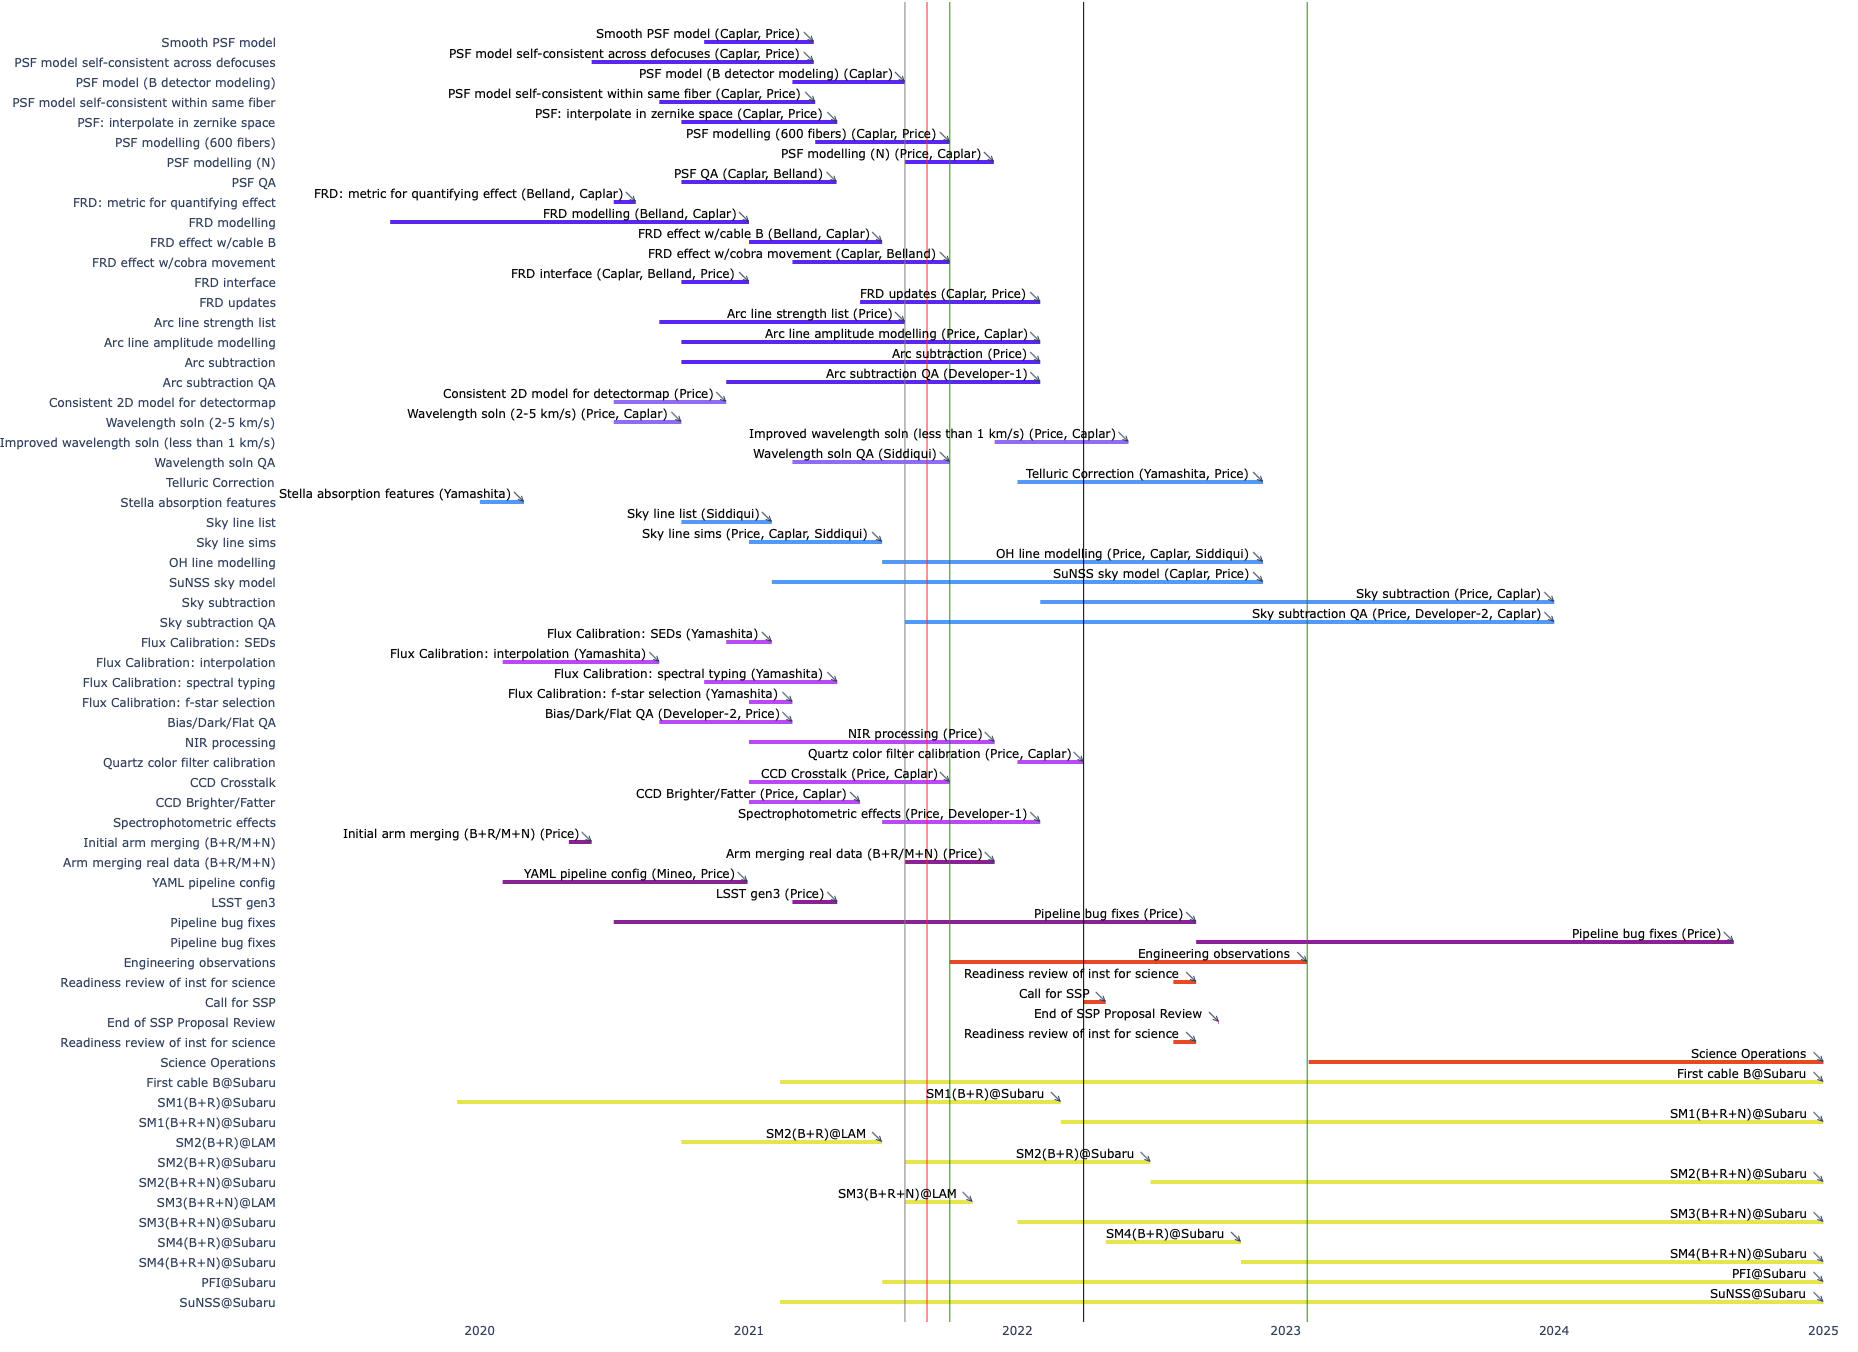
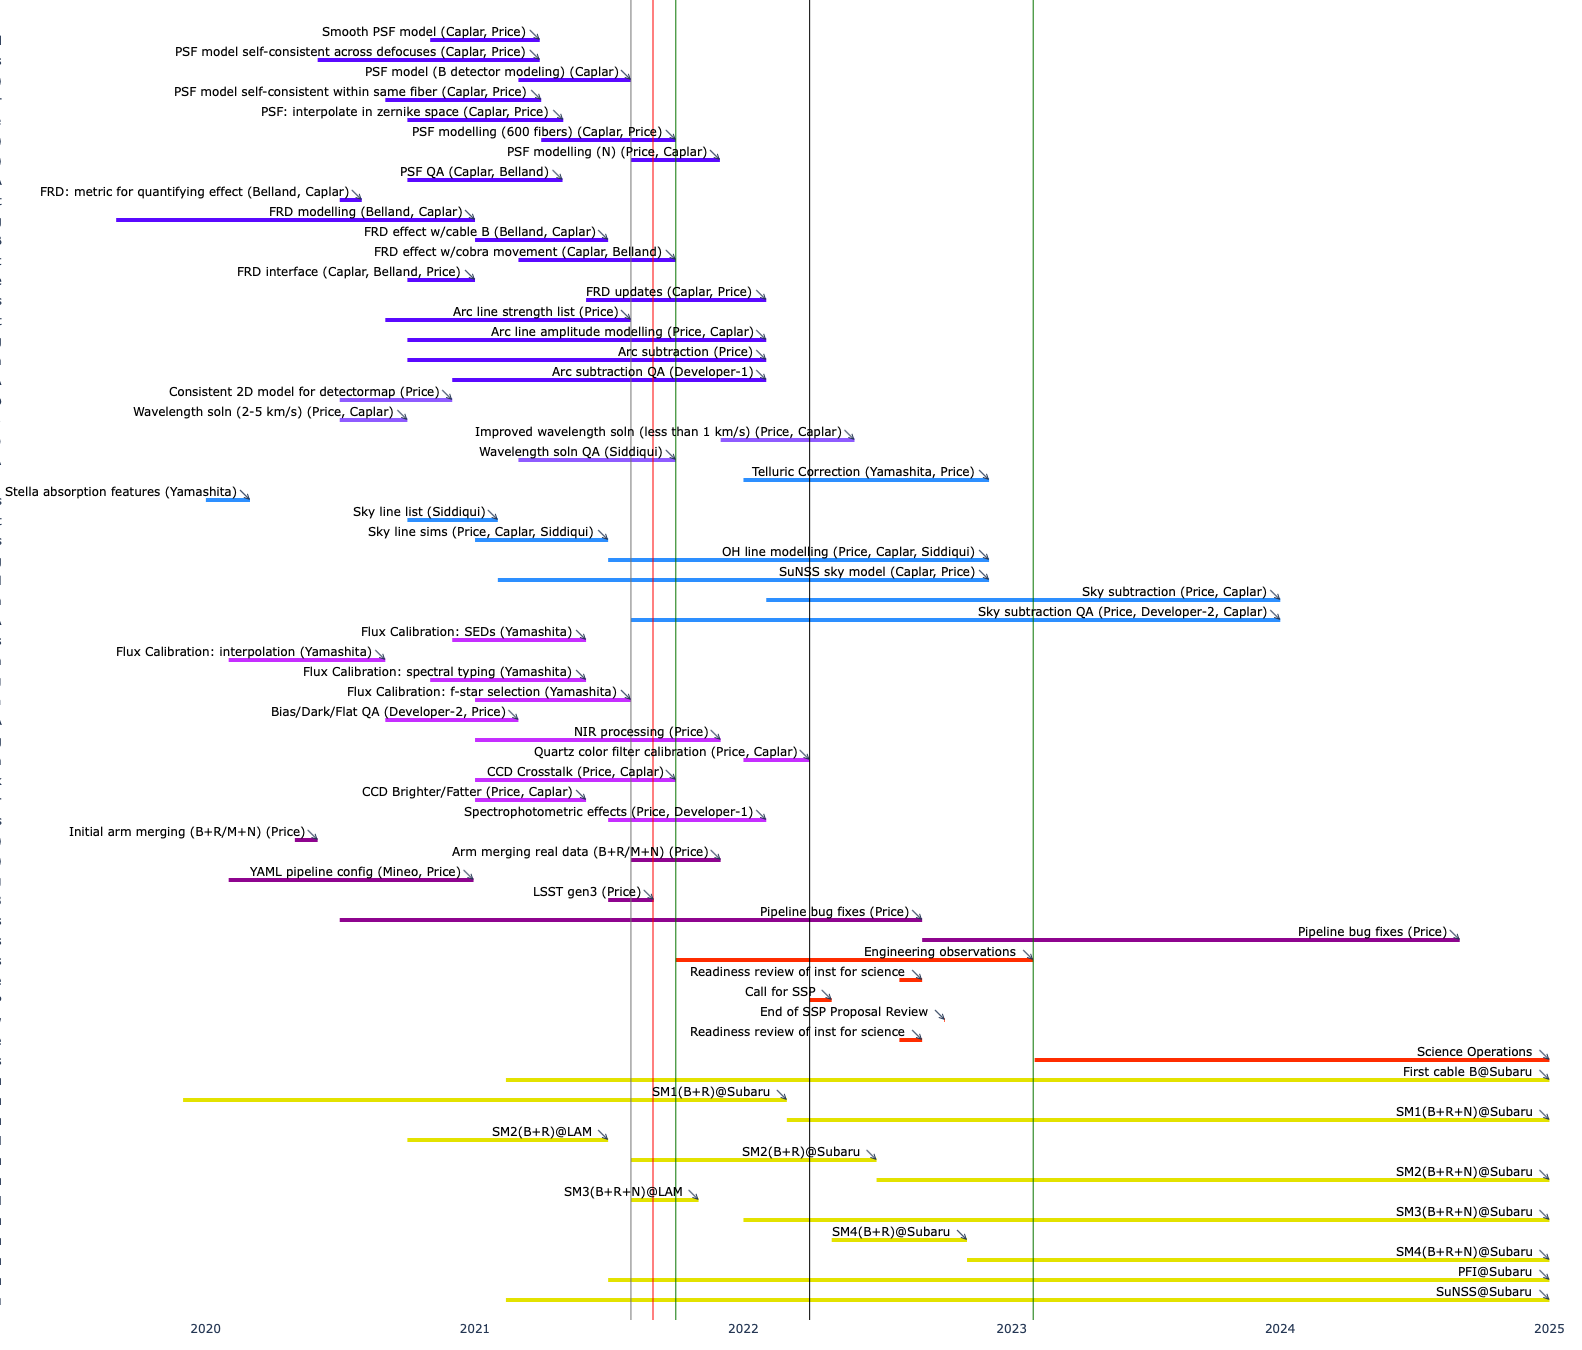
Extended flux calibration plan.
Plan extended to summer 2021.
Further updates required once additional
inputs from NAOJ are provided.

Changed region(s): [[0.0, 0.0, 0.9912, 0.9956]]

diff --git a/plan/doc/changelog.tex b/plan/doc/changelog.tex
@@ -1,11 +1,12 @@
 \section{Version and Changelog}
 
-The version of this document is {\bf 0.5} .
+The version of this document is {\bf 0.6} .
 
 \begin{table}[H]
     \begin{tabular}{|l|l|l|p{10cm}| }
     \hline
     {\bf Version} & {\bf Date} & {\bf Author} & {\bf Description} \\ \hline
+    0.6 & 2021-04-09 & H Siddiqui & Revised flux calibration timeline. Further updates required.\\ \hline
     0.5 & 2021-04-07 & H Siddiqui & Providing a single scenario. SMx timeline updated\\ \hline
     0.4 & 2020-09-10 & H Siddiqui & Incorporated scenarios with and without IPMU/NOAJ developers working on arc modelling\\ \hline
     0.3 & 2020-09-03 & H Siddiqui & Updated timeline assuming no new developers. Misc comments\\ \hline

diff --git a/plan/doc/task_list.tex b/plan/doc/task_list.tex
@@ -242,7 +242,7 @@ Resources: Price : 10, Caplar : 5, Developer-2 : 10
 
 Define the datamodel for an SED
 
-Period: 2020-12-01 - 2021-02-01
+Period: 2020-12-01 - 2021-06-01
 
 Resources: Yamashita : 15
 
@@ -258,7 +258,7 @@ Resources: Yamashita : 20
 
 Whiten spectra and recover input spectral shape
 
-Period: 2020-11-01 - 2021-05-01
+Period: 2020-11-01 - 2021-06-01
 
 Resources: Yamashita : 20
 
@@ -266,7 +266,7 @@ Resources: Yamashita : 20
 
 Determine F-star candidates that can be used for flux calibration.
 
-Period: 2021-01-01 - 2021-03-01
+Period: 2021-01-01 - 2021-08-01
 
 Resources: Yamashita : 10
 
